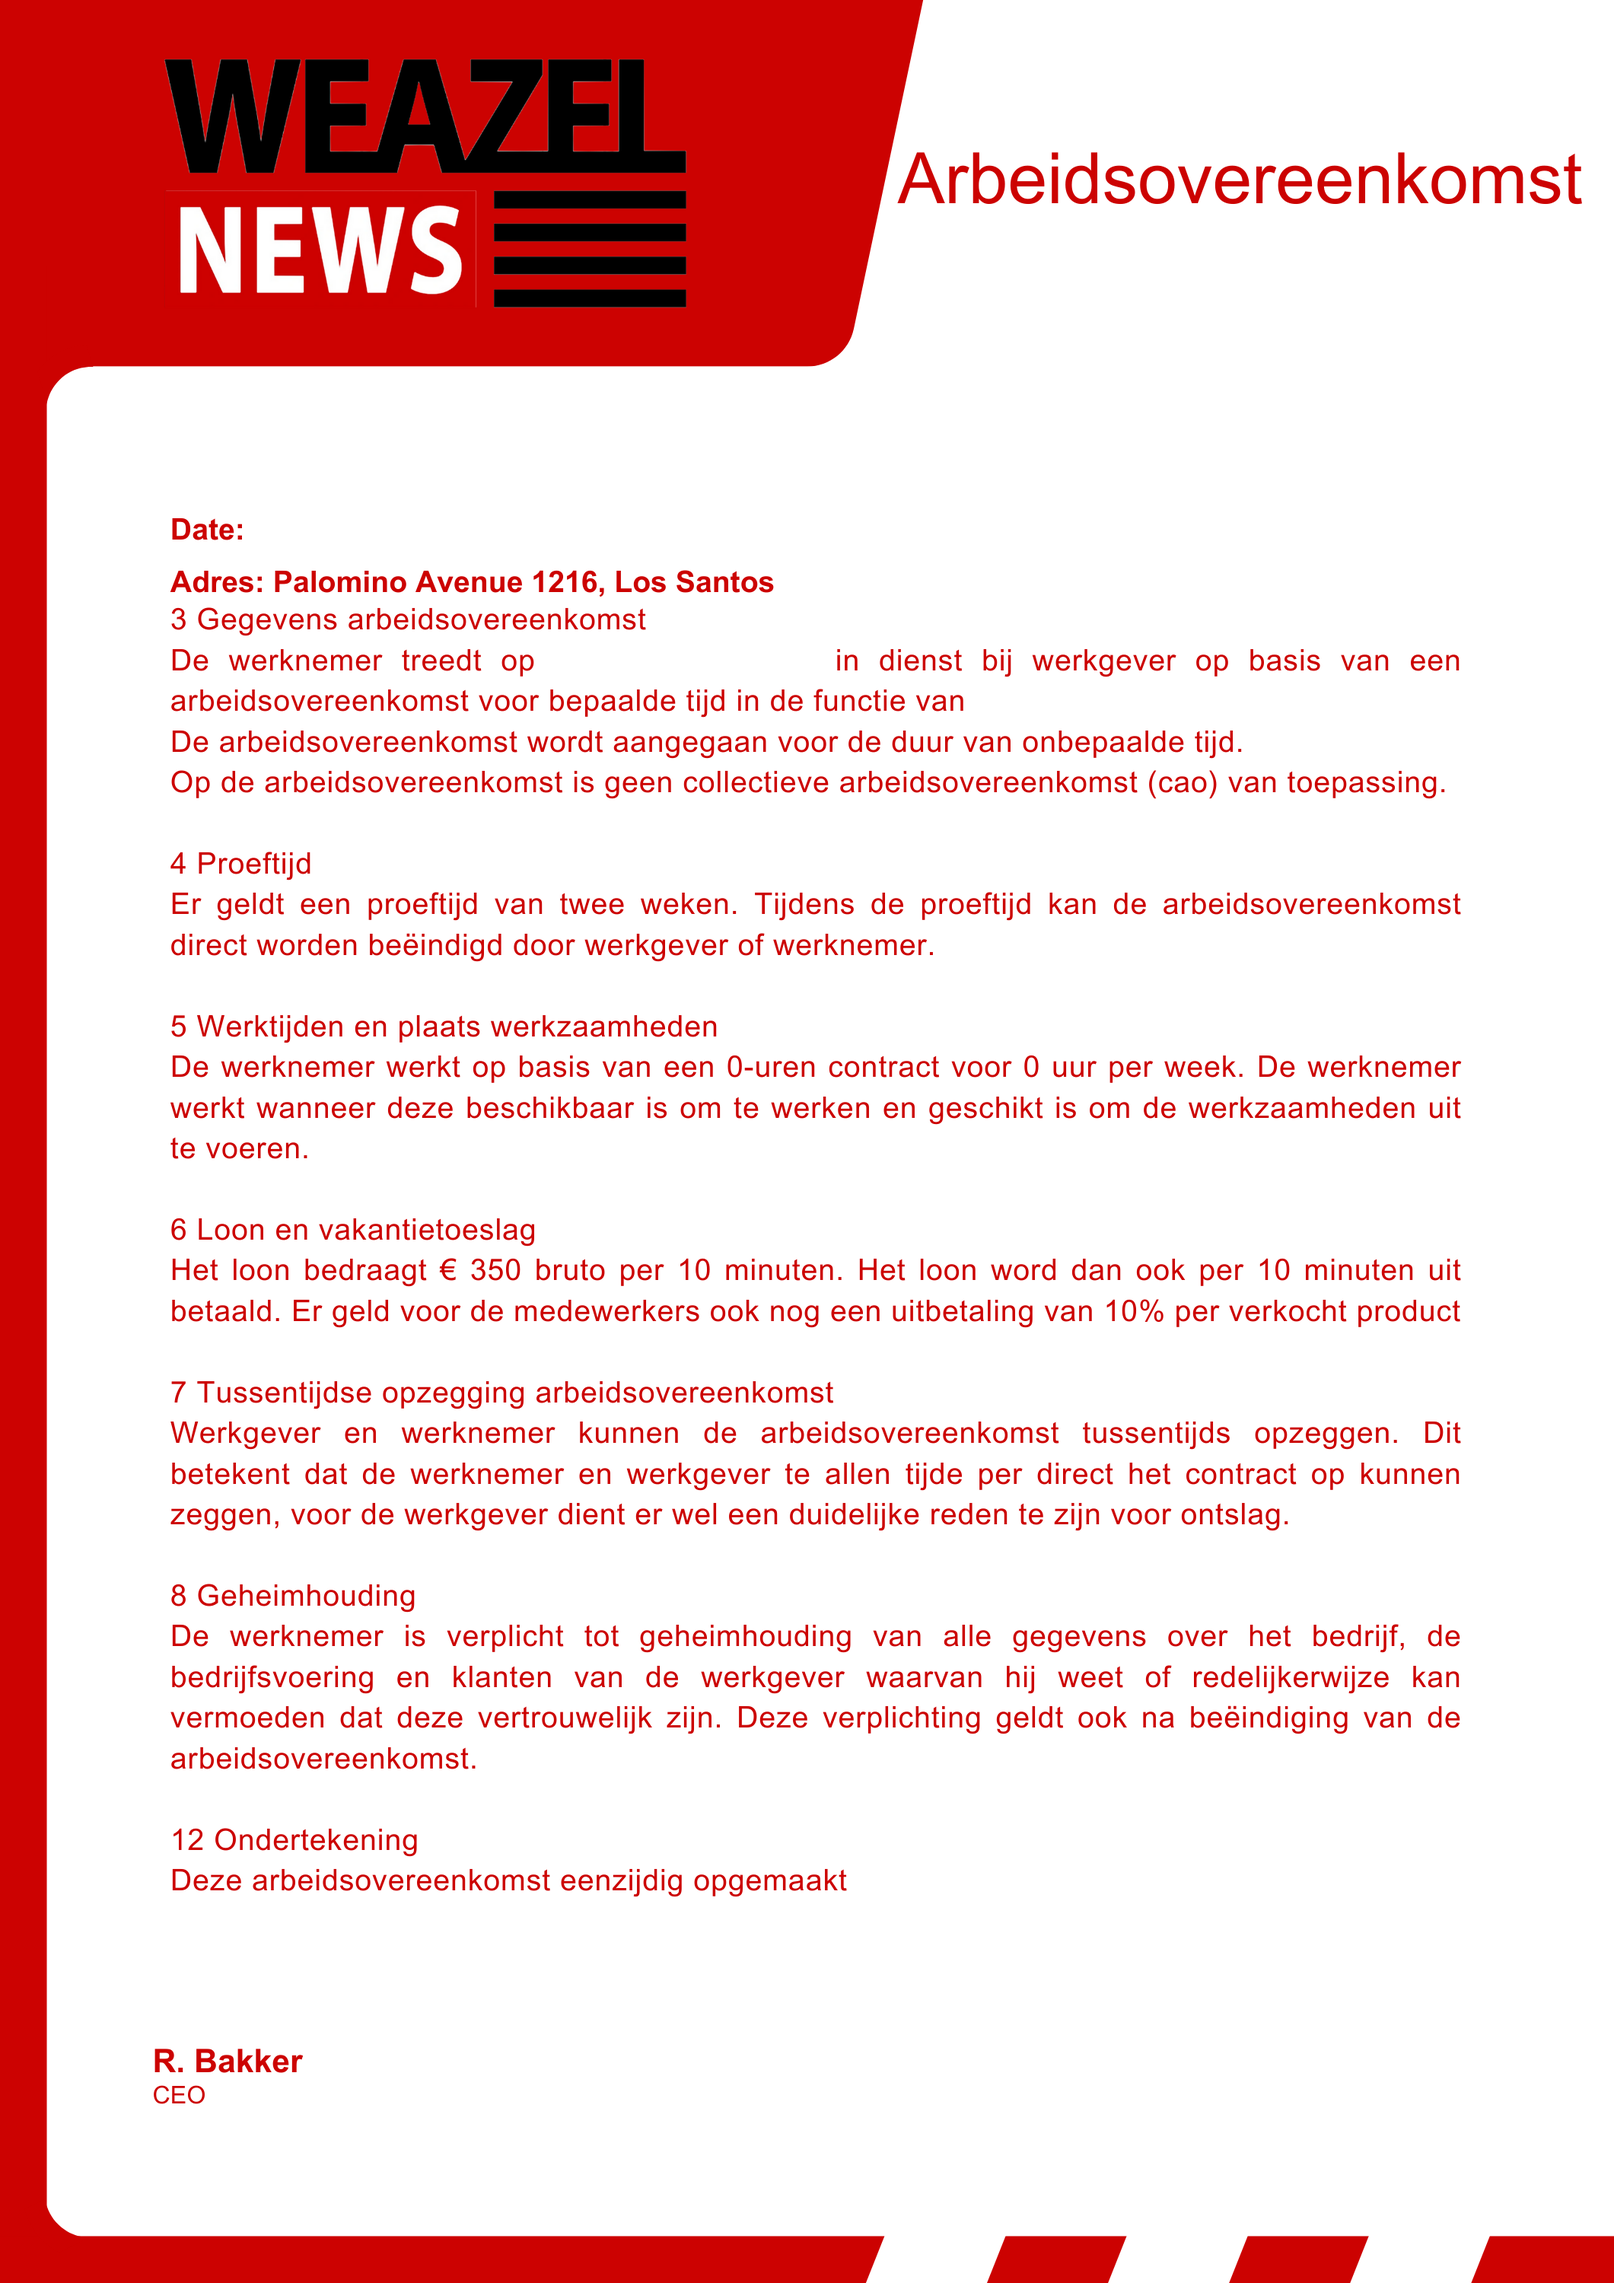
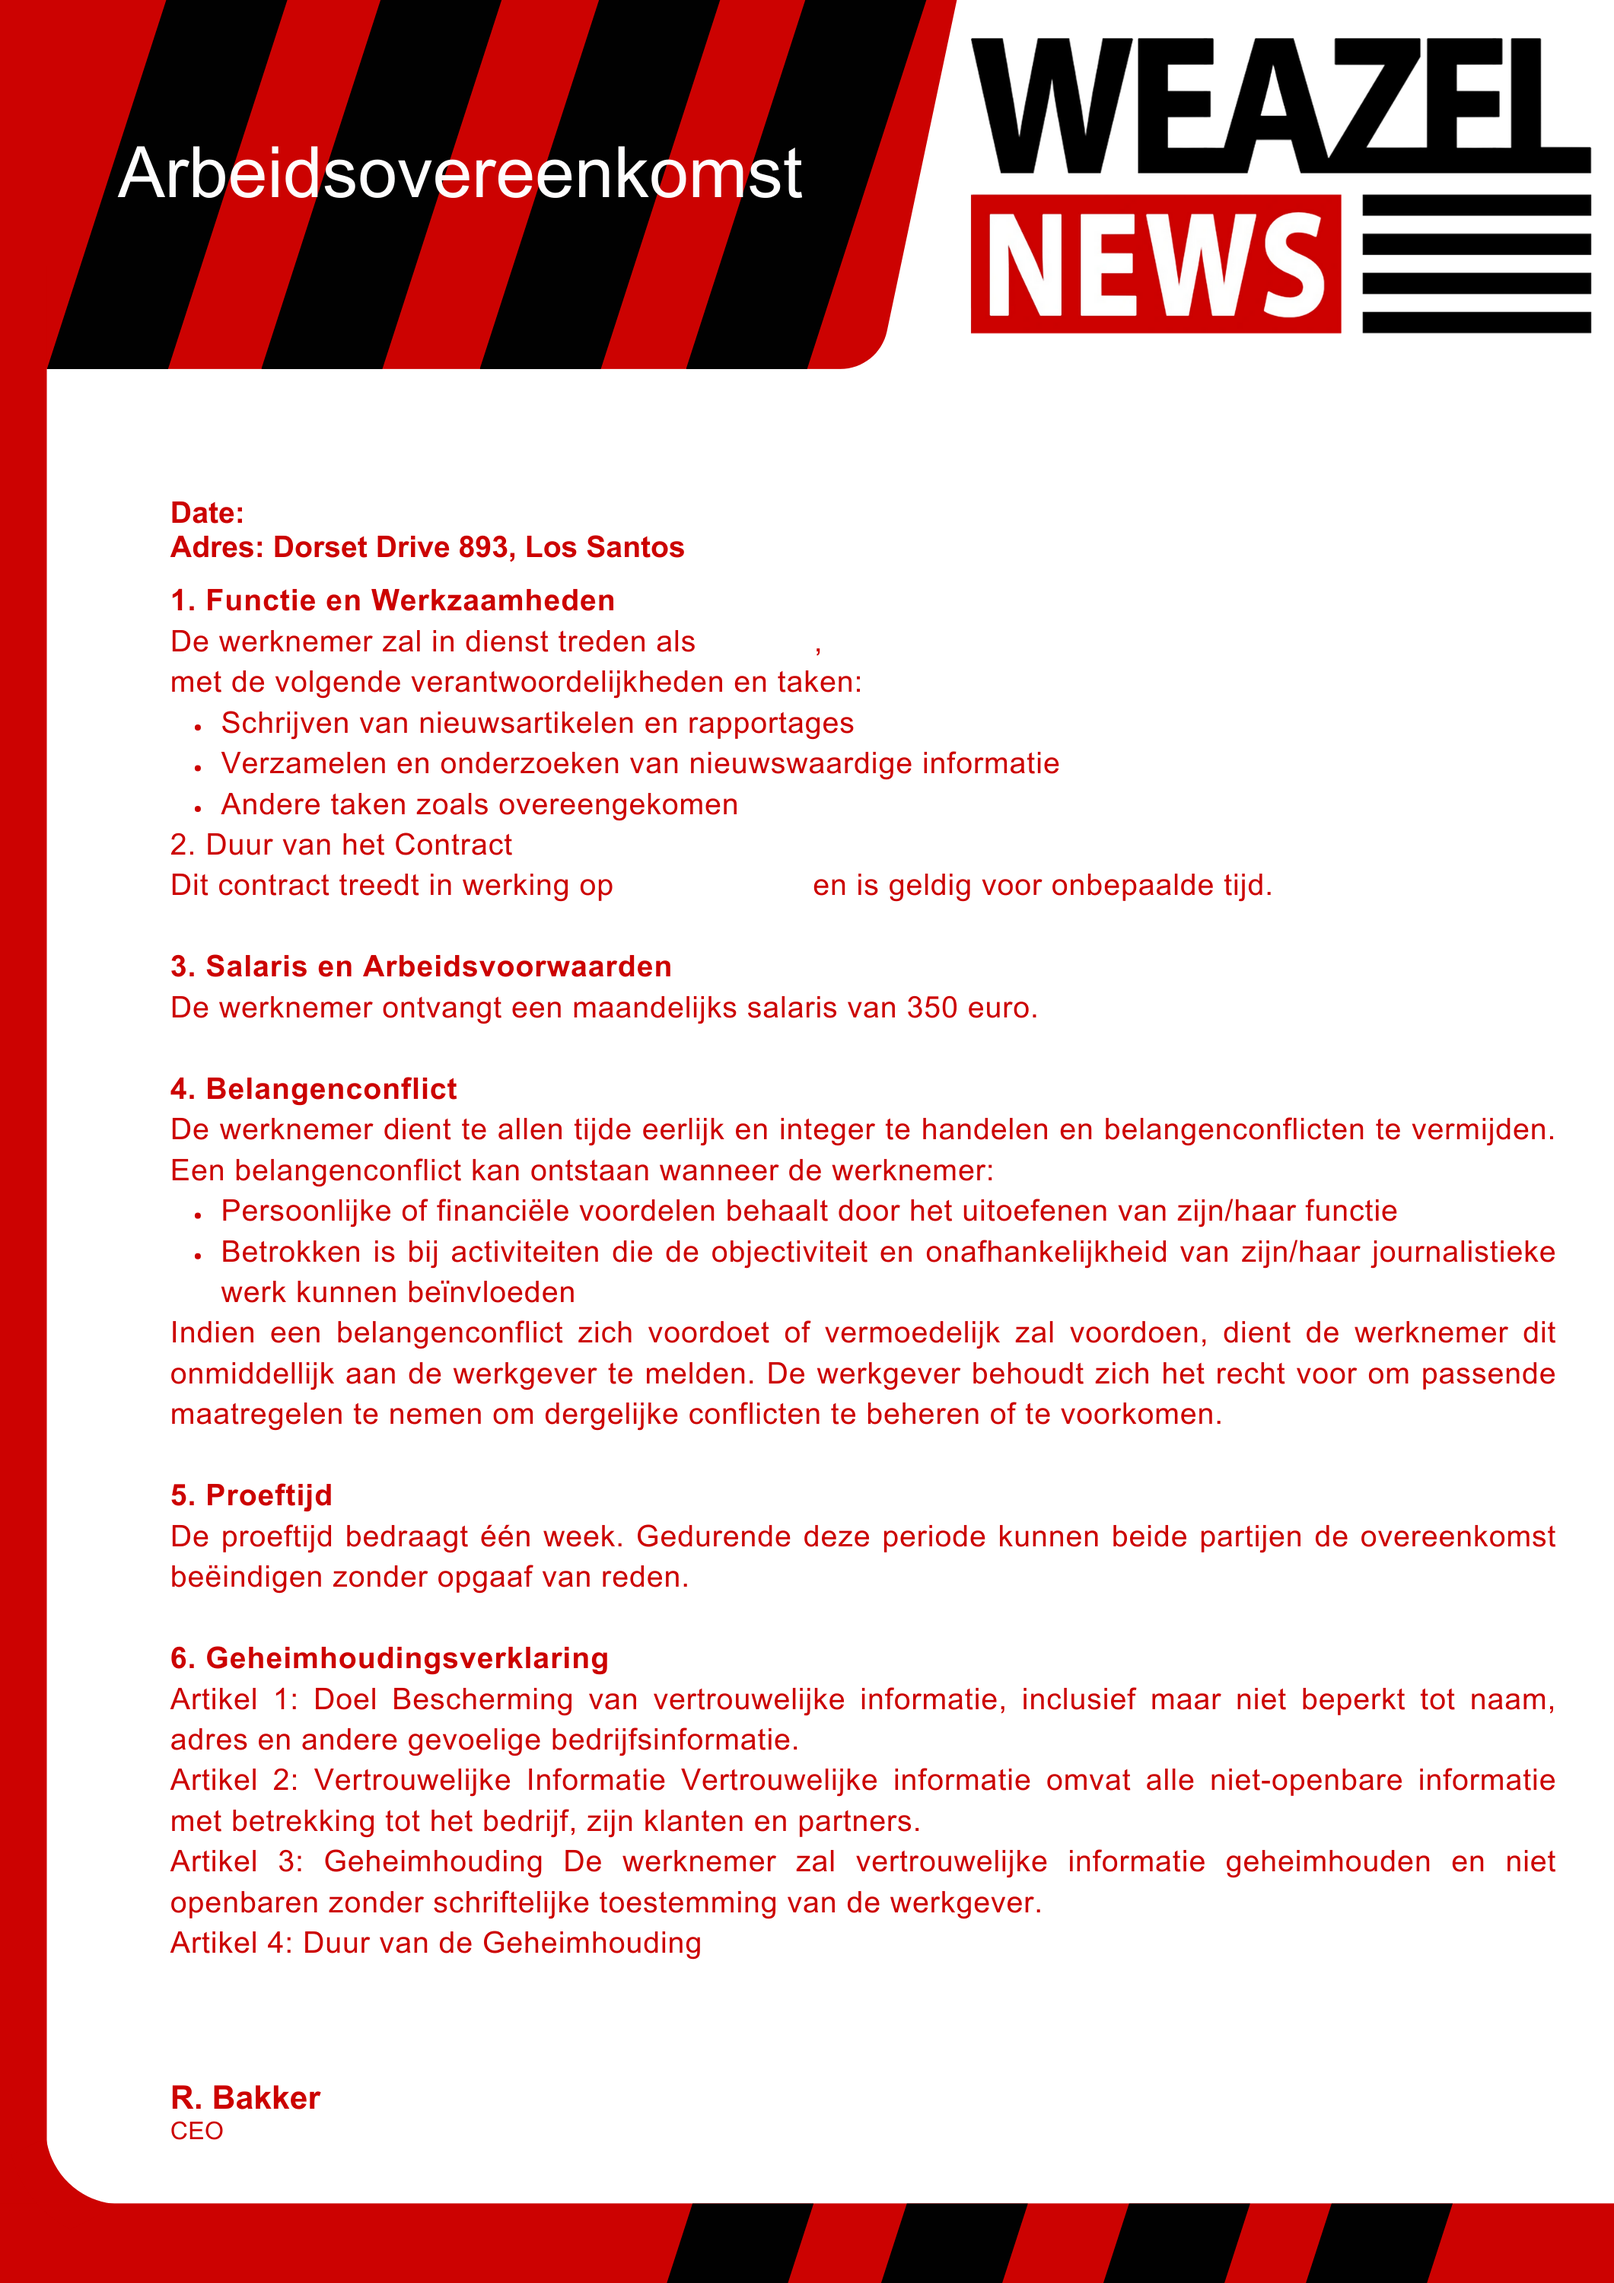
Uploads
Main

diff --git a/Weedworld.html b/Weedworld.html
@@ -121,14 +121,16 @@
         ctx.drawImage(image, 0, 0, canvas.width, canvas.height); // Redraw the image
 
        // Set text properties
-       ctx.font = "bold 40px Arial";
+       ctx.font = "bold 30px Arial";
             ctx.fillStyle = "Black";
-            ctx.fillText(todayString, 310, 715);
-            ctx.fillText(todayString, 700 ,900);
-            ctx.fillText(Naam, 600, 600);
-            ctx.fillText(Functie, 1260, 952);
-            ctx.font = "70px Lucida Handwriting";
-            ctx.fillText('C. de Witte', 200 ,2630);
+            ctx.fillText(todayString, 1510, 905);
+            ctx.fillText(todayString, 595 ,1022);
+            ctx.font = "90px Lucida Handwriting";
+            ctx.fillText(Naam, 600, 700);
+            ctx.font = "bold 30px Arial";
+            ctx.fillText(Functie, 542, 1066);
+            
+            
 
 
         // Convert canvas content to a PNG data URL

diff --git a/Weazel.html b/Weazel.html
@@ -123,12 +123,16 @@
        // Set text properties
        ctx.font = "bold 40px Arial";
             ctx.fillStyle = "Black";
-            ctx.fillText(todayString, 310, 715);
-            ctx.fillText(todayString, 700 ,900);
-            ctx.fillText(Naam, 600, 600);
-            ctx.fillText(Functie, 1260, 952);
+            ctx.fillText(todayString, 330, 690);
+            ctx.fillText(todayString, 830 ,1180);
             ctx.font = "70px Lucida Handwriting";
-            ctx.fillText('R.Bakker', 200 ,2630);
+            ctx.fillStyle = "Black";
+            ctx.fillText(Naam, 600, 600);
+            ctx.font = "bold 40px Arial";
+            ctx.fillStyle = "Black";
+            ctx.fillText(Functie, 924, 856);
+            ctx.font = "70px Lucida Handwriting";
+            ctx.fillText('R.Bakker', 220 ,2710);
 
 
         // Convert canvas content to a PNG data URL

diff --git a/Dynasty.html b/Dynasty.html
@@ -123,10 +123,14 @@
        // Set text properties
        ctx.font = "bold 40px Arial";
             ctx.fillStyle = "Black";
-            ctx.fillText(todayString, 310, 715);
-            ctx.fillText(todayString, 700 ,900);
+            ctx.fillText(todayString, 325, 710);
+            ctx.fillText(todayString, 820 ,1310);
+            ctx.font = "70px Lucida Handwriting";
+            ctx.fillStyle = "Black";
             ctx.fillText(Naam, 600, 600);
-            ctx.fillText(Functie, 1260, 952);
+            ctx.font = "bold 40px Arial";
+            ctx.fillStyle = "Black";
+            ctx.fillText(Functie, 1020, 880);
             ctx.font = "70px Lucida Handwriting";
             ctx.fillText('', 200 ,2630);
 
